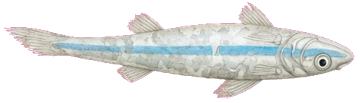
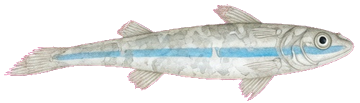
fish tank: the dart elder sprite was upside down, and the shell re-swaps copy on load
dart_elder.png was drawn belly up - the only sprite in the game with its eye below the fish's
midline (18% of the frame below centre, against 0 to 3% above centre for every other dart
stage). Flipped vertically with ffmpeg; its eye now sits 19% above centre, which is the mirror
of what it was, and the file's size and ink are unchanged.

Found by measuring rather than looking: the eye of a fish sits above its own midline, so the
mean height of a sprite's darkest pixels is enough to catch a flip objectively. Audited all 116
fish assets that way. One other candidate, lantern_teen, was 16 points out of step with its
siblings but only 2% below centre in absolute terms, so it was left alone rather than churned
on a guess. azure, moss, glimmer and puff are all firmly upright; shark, ruby and sunscale are
framed consistently within their own families, so they are drawn that way rather than flipped.

Also: the copy swap kept its flag in the tank, so a run resumed from the save kept the standard
shell - points in the bio, a pellet at 15. The flag is per page load now, which is what it
should have been: the markup starts standard every time the page opens.

diff --git a/games/fish-tank/tank.js b/games/fish-tank/tank.js
@@ -3931,6 +3931,9 @@
      however good the water looks. */
   /* a run flagged at the menu becomes a run as soon as the water does */
   let menuRpg = false;
+  /* once per page load, not once per save: the shell's markup is standard every time the page
+     opens, so a flag kept in the tank would leave a resumed run reading like the other mode */
+  let rpgCopied = false;
   /* The shell's copy talks about points in a mode that has none. Swapped once, when the run
      starts: the keeper's own line, the how-to card, the paragraphs that promise points for
      feeding and for marks, and the two buttons that still advertise a price. */
@@ -3983,7 +3986,7 @@
     /* a run picked up from the save never went through the menu, so the shell's copy is
        swapped here too. rpgCopy only rewrites what still says points, so this is safe to
        land on any state, whenever it was started. */
-    if (!state._rpgCopy) { state._rpgCopy = true; rpgCopy(); }
+    if (!rpgCopied) { rpgCopied = true; rpgCopy(); }
     /* nothing can be bought, so nothing can be saved up */
     if (state.points) state.points = 0;
     if (now - (state._rpgDrew || 0) > 1000) { state._rpgDrew = now; paintRpg(); }

diff --git a/games/fish-tank/tools/fish_tank_smoke.js b/games/fish-tank/tools/fish_tank_smoke.js
@@ -353,7 +353,8 @@ must("the shell stops promising points in a run", js.indexOf("function rpgCopy()
   js.indexOf("Marks are what the run is measured on.") >= 0 && js.indexOf("rpgCopy();") >= 0 &&
   html.indexOf('id="howLine"') >= 0 && js.indexOf('getElementById("change")') >= 0 &&
   js.indexOf("Water change · free") >= 0);
-must("a resumed run re-swaps the copy too", js.indexOf("if (!state._rpgCopy) { state._rpgCopy = true; rpgCopy(); }") >= 0 &&
+must("a resumed run re-swaps the copy too", js.indexOf("if (!rpgCopied) { rpgCopied = true; rpgCopy(); }") >= 0 &&
+  js.indexOf("let rpgCopied = false;") >= 0 &&
   js.indexOf("function rpgCopy()") >= 0);
 must("the run panel wears the tank's own classes", js.indexOf('box.className = "rpg-panel wgrid";') >= 0 &&
   js.indexOf("class='wrow'") >= 0 && js.indexOf("class='wlabel'") >= 0 && js.indexOf("class='wsub'") >= 0);

diff --git a/games/fish-tank/index.html b/games/fish-tank/index.html
@@ -309,6 +309,6 @@
 </div>
 <script src="/games/arcade-ledger.js?v=5"></script>
 <script src="./radio.js?v=2"></script>
-<script src="./tank.js?v=60"></script>
+<script src="./tank.js?v=61"></script>
 </body>
 </html>
